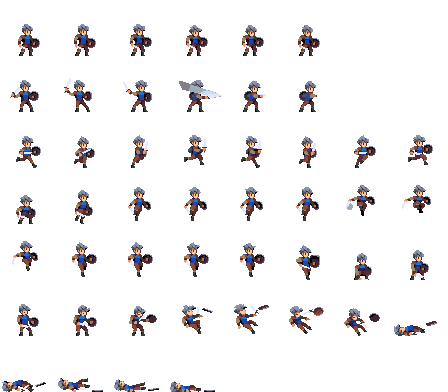
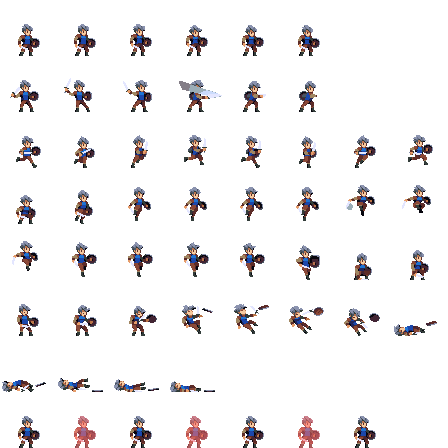
Ongoing Enemy Changes

diff --git a/lib/main.dart b/lib/main.dart
@@ -1,5 +1,3 @@
-import 'dart:developer';
-
 import 'package:flame/collisions.dart';
 import 'package:flame/components.dart';
 import 'package:flame/flame.dart';
@@ -32,14 +30,18 @@ class WoodRunner extends FlameGame with TapDetector, HasCollisionDetection {
     debugMode = true;
   }
 
-  late final Component floor;
-  late final Component background;
+  late final ParallaxComponent floor;
+  late final ParallaxComponent background;
   late final PlayerCharacter player;
+  late final FlyingEyeEnemy flyingEyeEnemy;
+  late final SkeletonEnemy skeletonEnemy;
+
   Vector2 viewportSize = Vector2.zero();
   double floorHeight = 0.0;
 
-  final double playerSpeed = 80;
+  double playerSpeed = 80;
   final double playerSizeFactor = 0.2125;
+  final double enemySizeFactor = 0.2125;
 
   Future<void> initComponents() async {
     background = ParallaxComponent(
@@ -91,9 +93,37 @@ class WoodRunner extends FlameGame with TapDetector, HasCollisionDetection {
       position: Vector2(0, viewportSize.y - floorHeight),
     );
     player = PlayerCharacter(
+      speed: playerSpeed,
       size: Vector2.all(viewportSize.y * playerSizeFactor),
       position: Vector2(viewportSize.x * 0.075,
           viewportSize.y - floorHeight - (viewportSize.y * playerSizeFactor)),
+      onHurt: () {
+        playerSpeed = 0;
+        background.parallax!.baseVelocity = Vector2(playerSpeed * 0.8, 0);
+        floor.parallax!.baseVelocity = Vector2(playerSpeed, 0);
+      },
+      onRun: () {
+        playerSpeed = 80;
+        background.parallax!.baseVelocity = Vector2(playerSpeed * 0.8, 0);
+        floor.parallax!.baseVelocity = Vector2(playerSpeed, 0);
+      },
+      onJump: () {},
+      onAttack: () {},
+      onDie: () {
+        playerSpeed = 0;
+        background.parallax!.baseVelocity = Vector2(playerSpeed * 0.8, 0);
+        floor.parallax!.baseVelocity = Vector2(playerSpeed, 0);
+      },
+    );
+    flyingEyeEnemy = await FlyingEyeEnemy.create(
+      size: Vector2.all(viewportSize.y * enemySizeFactor),
+      position: Vector2(viewportSize.x * 1.5,
+          viewportSize.y - floorHeight - (viewportSize.y * enemySizeFactor)),
+    );
+    skeletonEnemy = await SkeletonEnemy.create(
+      size: Vector2.all(viewportSize.y * enemySizeFactor),
+      position: Vector2(viewportSize.x * 1,
+          viewportSize.y - floorHeight - (viewportSize.y * enemySizeFactor)),
     );
     await player.init();
   }
@@ -112,6 +142,8 @@ class WoodRunner extends FlameGame with TapDetector, HasCollisionDetection {
     add(background);
     add(floor);
     add(player);
+    add(flyingEyeEnemy);
+    add(skeletonEnemy);
 
     return super.onLoad();
   }
@@ -123,12 +155,19 @@ class WoodRunner extends FlameGame with TapDetector, HasCollisionDetection {
   }
 }
 
+enum PlayerState { idle, run, jump, attack, hurt, die }
+
 class PlayerCharacter extends SpriteAnimationComponent with CollisionCallbacks {
   PlayerCharacter({
     super.size,
     super.position,
     this.speed = 125 * 8,
     this.jumpHeight = 80,
+    this.onHurt,
+    this.onRun,
+    this.onJump,
+    this.onAttack,
+    this.onDie,
   }) {
     basePosition = position.clone();
   }
@@ -138,16 +177,22 @@ class PlayerCharacter extends SpriteAnimationComponent with CollisionCallbacks {
   late final SpriteSheet spriteSheet;
   late final SpriteAnimation idleAnimation;
   late final SpriteAnimation runAnimation;
-  late final SpriteAnimation attackAnimation;
 
   final double speed; //Milliseconds to complete on run animation
   final double jumpHeight;
+  final void Function()? onHurt;
+  final void Function()? onRun;
+  final void Function()? onJump;
+  final void Function()? onAttack;
+  final void Function()? onDie;
+
+  PlayerState state = PlayerState.idle;
 
   Future<void> init() async {
     spriteSheet = SpriteSheet.fromColumnsAndRows(
       image: await Flame.images.load('character/char_blue.png'),
       columns: 8,
-      rows: 7,
+      rows: 8,
     );
 
     idleAnimation = spriteSheet.createAnimation(
@@ -174,13 +219,41 @@ class PlayerCharacter extends SpriteAnimationComponent with CollisionCallbacks {
     return super.onLoad();
   }
 
+  @override
+  void onCollision(Set<Vector2> intersectionPoints, PositionComponent other) {
+    if (state != PlayerState.hurt) {
+      if (other is Enemy) {
+        hurt();
+      }
+    }
+    super.onCollision(intersectionPoints, other);
+  }
+
   void idle() {
+    state = PlayerState.idle;
     animation = idleAnimation;
   }
 
   void run() {
+    if (onRun != null) {
+      onRun!();
+    }
+    state = PlayerState.run;
     position = basePosition.clone();
     animation = runAnimation;
+  }
+
+  void hurt() {
+    if (onHurt != null) {
+      onHurt!();
+    }
+    state = PlayerState.hurt;
+    position = basePosition.clone();
+    animation = animation = spriteSheet.createAnimation(
+      row: 7,
+      stepTime: 0.125,
+      loop: false,
+    )..onComplete = run;
   }
 
   void jump() {
@@ -188,17 +261,23 @@ class PlayerCharacter extends SpriteAnimationComponent with CollisionCallbacks {
   }
 
   void _jumpUp() {
-    animation = spriteSheet.createAnimation(
-      row: 3,
-      stepTime: 0.125,
-      loop: false,
-    )
-      ..onFrame = (frame) {
-        final newY = basePosition.y - ((jumpHeight / 8) * (frame + 1));
-        y = newY >= (basePosition.y - jumpHeight) ? newY : basePosition.y;
-        // log('Jumping up - Height: $y');
+    if (state != PlayerState.jump) {
+      if (onJump != null) {
+        onJump!();
       }
-      ..onComplete = _jumpDown;
+      state = PlayerState.jump;
+      animation = spriteSheet.createAnimation(
+        row: 3,
+        stepTime: 0.125,
+        loop: false,
+      )
+        ..onFrame = (frame) {
+          final newY = basePosition.y - ((jumpHeight / 8) * (frame + 1));
+          y = newY >= (basePosition.y - jumpHeight) ? newY : basePosition.y;
+          // log('Jumping up - Height: $y');
+        }
+        ..onComplete = _jumpDown;
+    }
   }
 
   void _jumpDown() {
@@ -217,10 +296,188 @@ class PlayerCharacter extends SpriteAnimationComponent with CollisionCallbacks {
   }
 
   void die() {
-    animation = spriteSheet.createAnimation(
-      row: 5,
-      stepTime: 0.175,
-      loop: false,
+    if (state != PlayerState.die) {
+      if (onDie != null) {
+        onDie!();
+      }
+      state = PlayerState.die;
+      animation = spriteSheet.createAnimation(
+        row: 5,
+        stepTime: 0.175,
+        loop: false,
+      );
+    }
+  }
+}
+
+class FlyingEyeEnemy extends Enemy {
+  FlyingEyeEnemy({
+    super.size,
+    super.position,
+    super.speed,
+    required super.idleSpriteSheet,
+    required super.runSpriteSheet,
+    required super.attackSpriteSheet,
+  }) : super(flying: true);
+
+  static Future<FlyingEyeEnemy> create({
+    required Vector2 size,
+    required Vector2 position,
+    double speed = 125 * 8,
+  }) async {
+    final object = FlyingEyeEnemy(
+      size: size,
+      speed: speed,
+      position: position,
+      idleSpriteSheet: SpriteSheet.fromColumnsAndRows(
+        image: await Flame.images.load('character/enemy/FlyingEye/Flight.png'),
+        columns: 8,
+        rows: 1,
+      ),
+      runSpriteSheet: SpriteSheet.fromColumnsAndRows(
+        image: await Flame.images.load('character/enemy/FlyingEye/Flight.png'),
+        columns: 8,
+        rows: 1,
+      ),
+      attackSpriteSheet: SpriteSheet.fromColumnsAndRows(
+        image: await Flame.images.load('character/enemy/FlyingEye/Attack.png'),
+        columns: 8,
+        rows: 1,
+      ),
     );
+    await object.init();
+    return object;
+  }
+}
+
+class SkeletonEnemy extends Enemy {
+  SkeletonEnemy({
+    super.size,
+    super.position,
+    super.speed,
+    required super.idleSpriteSheet,
+    required super.runSpriteSheet,
+    required super.attackSpriteSheet,
+  }) : super(running: true);
+
+  static Future<SkeletonEnemy> create({
+    required Vector2 size,
+    required Vector2 position,
+    double speed = 125 * 8,
+  }) async {
+    final object = SkeletonEnemy(
+      size: size,
+      speed: speed,
+      position: position,
+      idleSpriteSheet: SpriteSheet.fromColumnsAndRows(
+        image: await Flame.images.load('character/enemy/Skeleton/Idle.png'),
+        columns: 4,
+        rows: 1,
+      ),
+      runSpriteSheet: SpriteSheet.fromColumnsAndRows(
+        image: await Flame.images.load('character/enemy/Skeleton/Walk.png'),
+        columns: 4,
+        rows: 1,
+      ),
+      attackSpriteSheet: SpriteSheet.fromColumnsAndRows(
+        image: await Flame.images.load('character/enemy/Skeleton/Attack.png'),
+        columns: 8,
+        rows: 1,
+      ),
+    );
+    await object.init();
+    return object;
+  }
+}
+
+enum EnemyState { idle, run, attack, die }
+
+abstract class Enemy extends SpriteAnimationComponent with CollisionCallbacks {
+  Enemy({
+    super.size,
+    super.position,
+    this.speed = 125 * 8,
+    this.flying = false,
+    this.running = false,
+    required this.idleSpriteSheet,
+    required this.runSpriteSheet,
+    required this.attackSpriteSheet,
+  }) {
+    basePosition = position.clone();
+  }
+
+  late final Vector2 basePosition;
+
+  final double speed; //Milliseconds to complete on run animation
+  final bool flying;
+  final bool running;
+
+  late final SpriteSheet idleSpriteSheet;
+  late final SpriteSheet runSpriteSheet;
+  late final SpriteSheet attackSpriteSheet;
+
+  late final SpriteAnimation idleAnimation;
+  late final SpriteAnimation runAnimation;
+
+  EnemyState state = EnemyState.idle;
+
+  Future<void> init() async {
+    idleAnimation = idleSpriteSheet.createAnimation(
+      row: 0,
+      stepTime: 0.125,
+    );
+    runAnimation = runSpriteSheet.createAnimation(
+      row: 0,
+      stepTime: (speed / idleSpriteSheet.columns) / 1000,
+    );
+    run();
+  }
+
+  @override
+  Future<void>? onLoad() {
+    add(RectangleHitbox(
+      position: Vector2(size.x * 0.25, size.y * 0.25),
+      size: Vector2(size.x * 0.5, size.y * 0.5),
+    ));
+    return super.onLoad();
+  }
+
+  @override
+  void onCollision(Set<Vector2> intersectionPoints, PositionComponent other) {
+    attack();
+    super.onCollision(intersectionPoints, other);
+  }
+
+  @override
+  void update(double dt) {
+    if (running || flying) {
+      if (x > (size.x * -1)) {
+        x -= 1;
+      } else {
+        x = basePosition.x;
+      }
+    }
+    super.update(dt);
+  }
+
+  idle() {
+    state = EnemyState.idle;
+    animation = idleAnimation;
+  }
+
+  run() {
+    state = EnemyState.run;
+    animation = runAnimation;
+  }
+
+  attack() {
+    if (state != EnemyState.attack) {
+      state = EnemyState.attack;
+      animation = attackSpriteSheet.createAnimation(
+        row: 0,
+        stepTime: 0.125,
+        loop: false,
+      )..onComplete = run;
+    }
   }
 }
